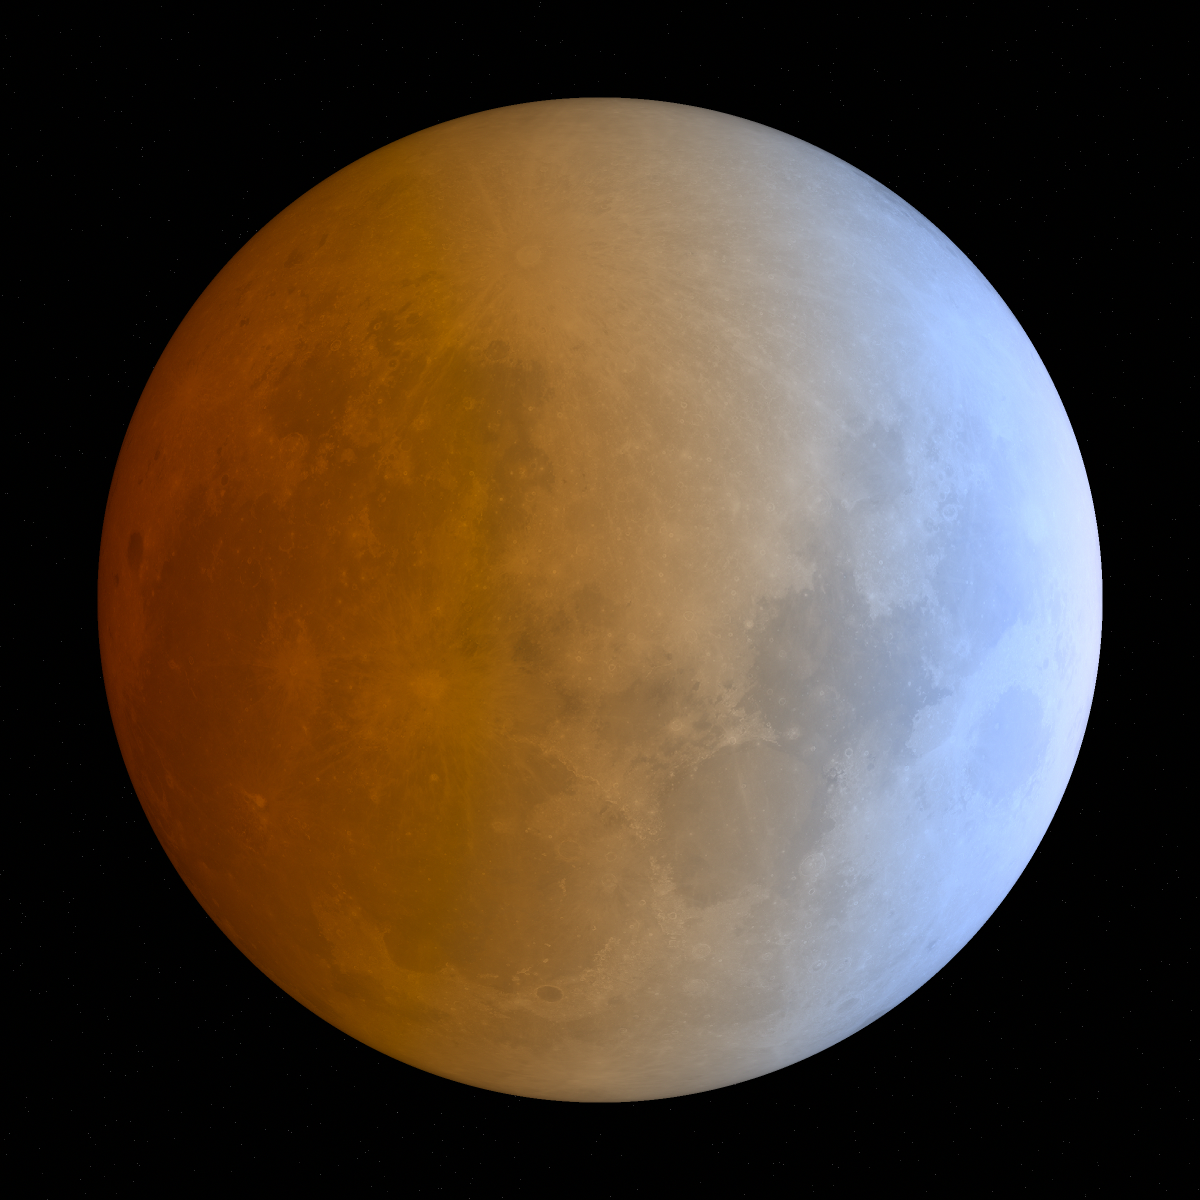
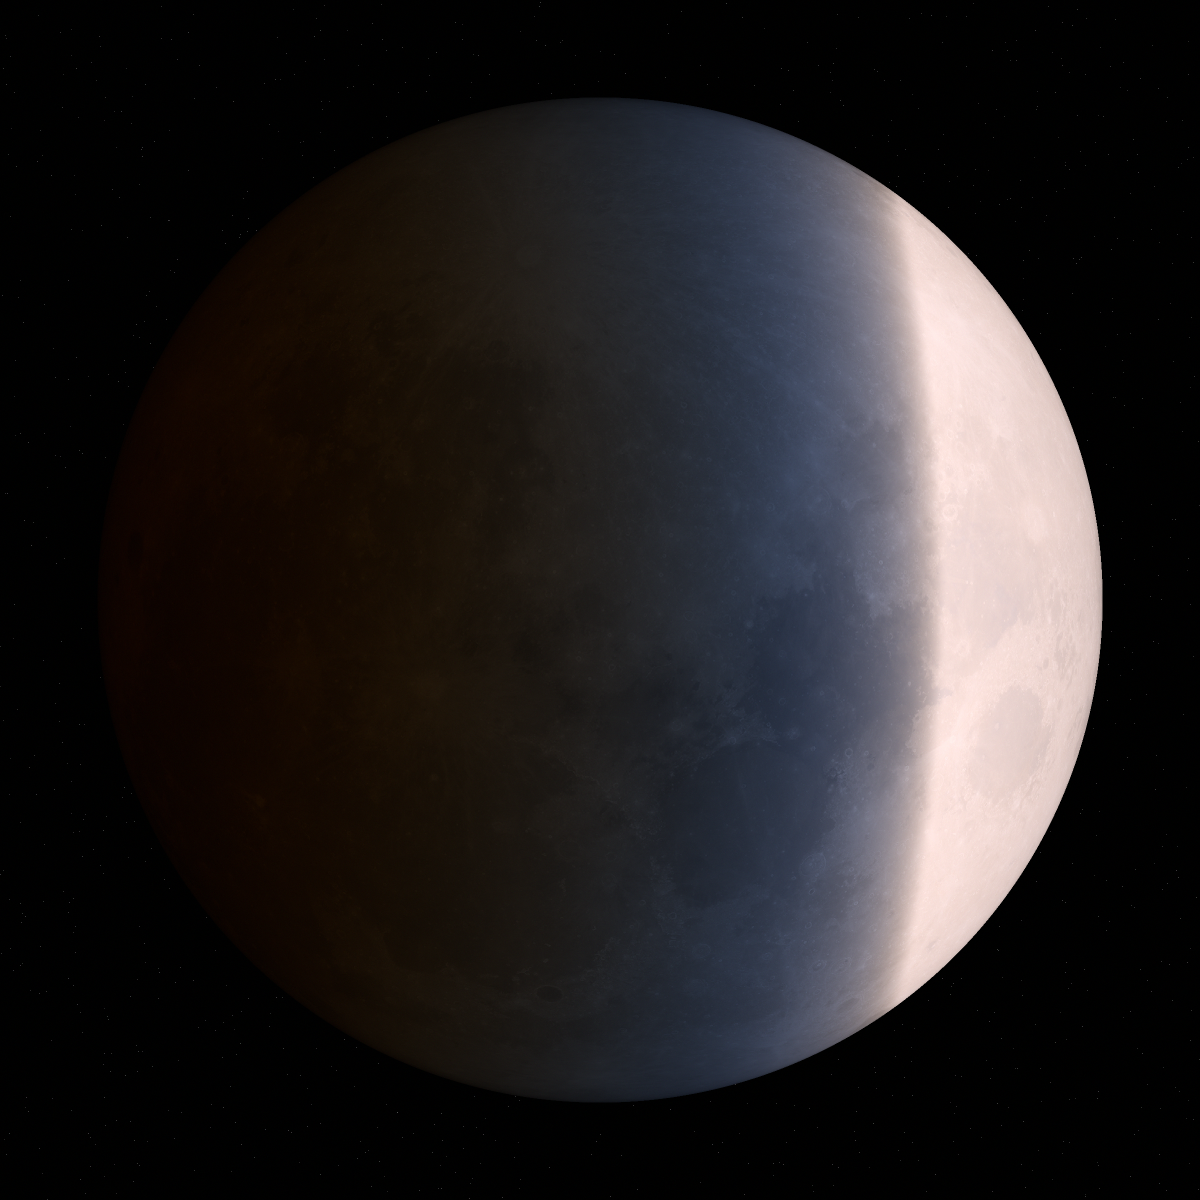
蓝带定稿: 对数tone map不死白 + composite诊断量化蓝带宽度
- 对数高光肩部 tone map: 白区(半影/趋白)保留月海纹理不死白, 暗部更沉(红暗无妨)
- 半影区(a>a_hi)平滑渐变到正常月光, 消除硬边界; 暖白平衡(1.06)往血月暖调靠
- composite诊断图(diag_composite.py): 上月盘+下剖面曲线, 量化回答'蓝带多宽'
  结论: 蓝带是渐变, 严格口径(R/B<0.88)2.4'/8%与文献Wang2024一致;
  肉眼看成蓝的整片冷调渐变29%. 不是物理偏差, 是阈值口径差异.
- d=47蓝带交界过月盘中心, 暗调

diff --git a/src/diag_composite.py b/src/diag_composite.py
@@ -1,0 +1,96 @@
+"""Composite 诊断图：上=月盘渲染，下=沿月盘水平中线的剖面曲线。
+
+剖面横轴 = 月盘上的水平位置(对齐上图)，纵轴展示：
+  - 距本影中心角距(arcmin)
+  - 红蓝比 R/B（>1 暖, <1 冷）
+  - "蓝度" b* (CIELAB, 负=蓝)
+让用户看清从哪到哪是绿松石带、占月盘多宽、那片蓝是真青绿还是趋白。
+"""
+import os, sys
+import numpy as np
+import matplotlib
+matplotlib.use("Agg")
+import matplotlib.pyplot as plt
+import matplotlib.gridspec as gridspec
+sys.path.insert(0, os.path.dirname(__file__))
+import render_textured as RT
+import render_rt, render as R
+import colour
+
+OUT = os.path.join(os.path.dirname(__file__), "..", "outputs")
+plt.rcParams["font.sans-serif"] = ["Arial Unicode MS", "PingFang SC", "Heiti SC"]
+plt.rcParams["axes.unicode_minus"] = False
+
+D = 47.0
+# 上图：渲染月盘
+rgb8, info = RT.render_realistic_disk(d_arcmin=D, size=1000, ssaa=2)
+
+# 下图：沿月盘水平中线(y=0)采样
+t = render_rt.build_branch_tables(n_h=8000)
+Rm = R.R_MOON_ARCMIN
+xs_world = np.linspace(D - Rm, D + Rm, 600)     # 月盘水平直径
+a_line = np.abs(xs_world)                         # 距本影中心角距
+XYZ = render_rt.shade(a_line, t)
+Y = np.maximum(XYZ[:, 1], 1e-30)
+# 颜色(自身亮度归一,看色相) + 红蓝比 + b*
+rgb = np.array([R._srgb_gamma(np.clip(R._xyz_to_srgb_linear(XYZ[i] / Y[i]), 0, 1)) for i in range(len(a_line))])
+rb = (rgb[:, 0] + 1e-6) / (rgb[:, 2] + 1e-6)
+# CIELAB b* (蓝度), 用日光白点
+white = t["white"] / max(t["white"][1], 1e-9)
+Lab = np.array([colour.XYZ_to_Lab(XYZ[i] / Y[i]) for i in range(len(a_line))])
+bstar = Lab[:, 2]
+
+# 蓝带是渐变，"多宽"取决于阈值（这正是肉眼1/5 vs 文献1-2'的差异来源）：
+#   - 整片偏冷渐变区（肉眼看成"蓝带"）：红蓝比 < 1（任何蓝多于红）
+#   - 文献窄蓝带核心（卫星红/蓝比值成像口径）：红蓝比 < 0.88（最蓝那一丝）
+cold_zone = rb < 1.0                           # 肉眼看成蓝的整片冷调渐变区
+teal = rb < 0.88                               # 文献口径的窄蓝带核心
+
+# 月盘归一化位置 [0,1]（左=近本影中心红, 右=外侧）
+xpos = (xs_world - (D - Rm)) / (2 * Rm)
+
+fig = plt.figure(figsize=(9, 10))
+gs = gridspec.GridSpec(2, 1, height_ratios=[2.2, 1.4], hspace=0.18)
+
+# --- 上：月盘 ---
+ax0 = fig.add_subplot(gs[0])
+ax0.imshow(rgb8, origin="lower", extent=[0, 1, 0, 1])
+ax0.axhline(0.5, color="yellow", ls=":", lw=0.8, alpha=0.5)   # 采样中线
+ax0.set_xticks([]); ax0.set_yticks([])
+ax0.set_title(f"月全食月盘 (d={D:.0f}', 蓝带交界过中心)  黄虚线=下方剖面采样位置", fontsize=11)
+
+# --- 下：剖面曲线 ---
+ax1 = fig.add_subplot(gs[1])
+ax1.plot(xpos, rb, color="purple", lw=2, label="红蓝比 R/B")
+ax1.axhline(1.0, color="gray", ls="--", lw=1, alpha=0.6)
+ax1.set_ylabel("红蓝比 R/B\n(>1暖红, <1冷蓝)", color="purple")
+ax1.set_ylim(0, 3)
+ax1.set_xlabel("月盘水平位置 (0=近本影中心/红, 1=外侧)  ——  与上图对齐")
+# 标出两个区间：宽的"偏冷渐变区"(肉眼看成蓝) vs 窄的"真蓝带核心"(红蓝比<1)
+if cold_zone.any():
+    xc = xpos[cold_zone]; wc = a_line[cold_zone].max() - a_line[cold_zone].min()
+    ax1.axvspan(xc.min(), xc.max(), color="steelblue", alpha=0.10,
+                label=f"偏冷渐变区 {(xc.max()-xc.min())*100:.0f}% / {wc:.0f}' (肉眼看成蓝带)")
+if teal.any():
+    xt = xpos[teal]; w_arc = a_line[teal].max() - a_line[teal].min()
+    ax1.axvspan(xt.min(), xt.max(), color="cyan", alpha=0.35,
+                label=f"窄蓝带核心 {(xt.max()-xt.min())*100:.0f}% / {w_arc:.1f}' (文献口径,与Wang2024一致)")
+ax1.annotate(f"最蓝 R/B={rb.min():.2f}\n(淡蓝,非饱和)", xy=(xpos[np.argmin(rb)], rb.min()),
+             xytext=(0.6, 1.9), fontsize=9, color="navy",
+             arrowprops=dict(arrowstyle="->", color="navy", lw=0.8))
+ax1.legend(loc="upper right", fontsize=7.5, framealpha=0.9)
+# 副轴: b* 蓝度
+ax2 = ax1.twinx()
+ax2.plot(xpos, bstar, color="blue", lw=1.2, ls="-.", alpha=0.6, label="b* (负=蓝)")
+ax2.axhline(0, color="blue", ls=":", lw=0.6, alpha=0.4)
+ax2.set_ylabel("CIELAB b* (负=蓝)", color="blue")
+
+# 顶部贴一条实际颜色条带, 对齐 xpos
+ax1b = ax1.inset_axes([0, 1.02, 1, 0.08])
+ax1b.imshow(rgb[None, :, :], aspect="auto", extent=[0, 1, 0, 1])
+ax1b.set_xticks([]); ax1b.set_yticks([])
+
+fig.savefig(os.path.join(OUT, "moon_composite.png"), dpi=140, bbox_inches="tight")
+print(f"已存 composite: {os.path.join(OUT,'moon_composite.png')}")
+print(f"冷色带(红蓝比<1非白)占月盘宽度: {(xpos[teal].max()-xpos[teal].min())*100:.0f}%" if teal.any() else "无冷色带")
+print(f"  角距范围 {a_line[teal].min():.1f}-{a_line[teal].max():.1f}arcmin" if teal.any() else "")

diff --git a/src/render_rt.py b/src/render_rt.py
@@ -39,7 +39,8 @@ def build_branch_tables(n_h=8000, h_min=0.0, h_max=80.0, n_lam=401):
 
     # 固定白点：未衰减日光，白点 Y=1（与现有口径一致）
     I_sun = solar.solar_spectrum(lam)
-    k = 1.0 / col.spectrum_to_XYZ(lam, I_sun)[1]
+    white_XYZ = col.spectrum_to_XYZ(lam, I_sun)
+    k = 1.0 / white_XYZ[1]
 
     I = rt.emergent_spectrum(h, lam)                                    # (H,L)
     XYZ = np.array([col.spectrum_to_XYZ(lam, I[i]) for i in range(len(h))]) * k  # (H,3)
@@ -51,9 +52,14 @@ def build_branch_tables(n_h=8000, h_min=0.0, h_max=80.0, n_lam=401):
     a_mono, h_mono = a[sl], h[sl]
     foc = g.focusing_factor(h)
     foc = foc / foc.max()
+    # 半影/本影外的"正常月光"。物理上半影是太阳被地球部分遮挡，比满月暗（部分光照）。
+    # 取一个中调亮度(penumbra_Y)而非满月 Y=1，使它过 tone-map 后落在中调、月海细节可见、
+    # 不被高光肩部压成死白。色相=中性日光白。
+    penumbra_Y = 0.20
+    white = white_XYZ * k * (penumbra_Y / (white_XYZ[1] * k))
     return dict(a_mono=a_mono, h_mono=h_mono,
                 a_lo=float(a_mono[0]), a_hi=float(a_mono[-1]),
-                h_grid=h, XYZ_grid=XYZ, foc_grid=foc)
+                h_grid=h, XYZ_grid=XYZ, foc_grid=foc, white=white)
 
 
 def _interp_xyz(h_pix, h_grid, XYZ_grid):
@@ -65,13 +71,28 @@ def _interp_xyz(h_pix, h_grid, XYZ_grid):
 
 
 def shade(a_pixel, t):
-    """像素角距(任意 shape) → 线性 XYZ。单一映射 a→h→颜色，无 LUT 角距插值、无 banding。"""
+    """像素角距(任意 shape) → 线性 XYZ。单一映射 a→h→颜色，无 LUT 角距插值、无 banding。
+
+    角距超出 LUT 范围（a > a_hi）= 视线不再深入大气 = 本影外/半影深处，
+    物理上是**正常月光（未经折射/臭氧的直射日光，白）**，不是黑。
+    """
     a = np.asarray(a_pixel, dtype=float)
-    h_pix = np.interp(a, t["a_mono"], t["h_mono"])        # a→h 单调反查
-    in_range = (a >= t["a_lo"]) & (a <= t["a_hi"])
+    a_cl = np.minimum(a, t["a_hi"])                       # 钳到边缘，半影区从边缘值起渐变
+    h_pix = np.interp(a_cl, t["a_mono"], t["h_mono"])     # a→h 单调反查
     XYZ = _interp_xyz(h_pix, t["h_grid"], t["XYZ_grid"])  # h→颜色（光滑）
     foc = np.interp(h_pix, t["h_grid"], t["foc_grid"])    # h→聚焦
-    return XYZ * foc[..., None] * in_range[..., None]
+    out = XYZ * foc[..., None]
+    out = np.where((a >= t["a_lo"])[..., None], out, 0.0) # 内侧极深处之外
+
+    # 本影外/半影 → 从 LUT 边缘值平滑渐变到中性月光白，避免硬边界。
+    beyond = a > t["a_hi"]
+    if np.any(beyond):
+        edge = _interp_xyz(np.array([t["h_mono"][-1]]), t["h_grid"], t["XYZ_grid"])[0] \
+            * np.interp(t["h_mono"][-1], t["h_grid"], t["foc_grid"])
+        frac = np.clip((a - t["a_hi"]) / 12.0, 0.0, 1.0)[..., None]
+        penumbra = edge * (1 - frac) + t["white"] * frac
+        out = np.where(beyond[..., None], penumbra, out)
+    return out
 
 
 # ============================================================

diff --git a/src/render_textured.py b/src/render_textured.py
@@ -129,11 +129,11 @@ def sample_albedo_orthographic(alb_tex, U, V, inside,
 # ============================================================
 # 2. 写实月盘渲染：反照率 × 物理食光，线性相乘 → tone-map
 # ============================================================
-def render_realistic_disk(d_arcmin=40.0, size=1400, margin_arcmin=3.0, ssaa=2,
+def render_realistic_disk(d_arcmin=47.0, size=1400, margin_arcmin=3.0, ssaa=2,
                           sub_lat_deg=0.0, sub_lon_deg=0.0,
-                          limb_power=0.5, target_srgb=0.20,
-                          dyn_gamma=0.85, chroma_weight=0.5, saturation=0.95,
-                          hdr_headroom=3.0,
+                          limb_power=0.5, target_srgb=0.12,
+                          dyn_gamma=0.9, chroma_weight=0.5, saturation=1.15,
+                          warm_wb=1.06, hdr_headroom=3.0,
                           add_starfield=True, add_grain=True,
                           lut_kwargs=None, seed=7):
     """渲染写实月全食照片：真实月面反照率纹理 × 物理食光颜色。
@@ -231,6 +231,12 @@ def render_realistic_disk(d_arcmin=40.0, size=1400, margin_arcmin=3.0, ssaa=2,
         rgb = np.clip(luma + (rgb - luma) * saturation, 0.0, None)
         luma_h = (0.2126 * rgb_hdr_lin[..., 0] + 0.7152 * rgb_hdr_lin[..., 1] + 0.0722 * rgb_hdr_lin[..., 2])[..., None]
         rgb_hdr_lin = np.clip(luma_h + (rgb_hdr_lin - luma_h) * saturation, 0.0, None)
+
+    # ---- 暖白平衡（艺术：往参考图/血月摄影常用暖调靠，R升B降，白区带粉、暖区更橙红）----
+    if warm_wb != 1.0:
+        wb = np.array([warm_wb, 1.0, 2.0 - warm_wb])    # R×warm, B×(2-warm)
+        rgb = np.clip(rgb * wb, 0.0, None)
+        rgb_hdr_lin = np.clip(rgb_hdr_lin * wb, 0.0, None)
 
     # ---- 星空背景（艺术，月盘外）----
     rgb = rgb * inside[..., None]
@@ -384,7 +390,7 @@ def save_hdr_tiff(hdr_lin, path):
 if __name__ == "__main__":
     import time
     ap = argparse.ArgumentParser()
-    ap.add_argument("--d", type=float, default=40.0, help="月心到本影中心角距 arcmin（默认40，月盘横跨本影边界=蓝带构图）")
+    ap.add_argument("--d", type=float, default=47.0, help="月心到本影中心角距 arcmin（默认47，蓝带交界过月盘中心）")
     ap.add_argument("--size", type=int, default=1400)
     ap.add_argument("--ssaa", type=int, default=2)
     ap.add_argument("--sub-lat", type=float, default=0.0, help="盘心月面纬度（默认0，正面）")

diff --git a/src/render.py b/src/render.py
@@ -235,16 +235,21 @@ def _xyz_to_srgb_linear(XYZ):
     return XYZ @ _M_XYZ2RGB.T
 
 
-def _tone_map_on_Y(XYZ, E):
-    """全局曝光 + Reinhard，只作用在亮度 Y 上（保色相/色度）。
+def _tone_map_on_Y(XYZ, E, hi_max=0.90):
+    """全局曝光 + 对数高光肩部，只作用在亮度 Y 上（保色相/色度）。
 
-    取色度 (X/Y, Z/Y) 不变，Y_disp = (E*Y)/(1+E*Y)，再乘回色度复原 XYZ。
+    Y_disp = hi_max · log2(1 + E·Y) / log2(1 + E·Y_white)
+    其中 E·Y_white 是场景内最亮处的曝光亮度。对数曲线在高光端**仍有斜率**，
+    所以白区（半影/趋白）保留月海纹理的灰度差异、不死白；最亮处映到 hi_max(<1)，
+    彻底不爆。暗部被压得更暗（红核更沉），符合"红暗无所谓、白不死白"的诉求。
     """
     X, Y, Z = XYZ[..., 0], XYZ[..., 1], XYZ[..., 2]
     Ys = np.maximum(Y, 1e-30)
     cx, cz = X / Ys, Z / Ys
     EY = E * Y
-    Yd = EY / (1.0 + EY)
+    EY_white = max(np.max(EY), 1e-6)
+    Yd = hi_max * np.log2(1.0 + EY) / np.log2(1.0 + EY_white)
+    Yd = np.clip(Yd, 0.0, 1.0)
     return np.stack([cx * Yd, Yd, cz * Yd], axis=-1)
 
 